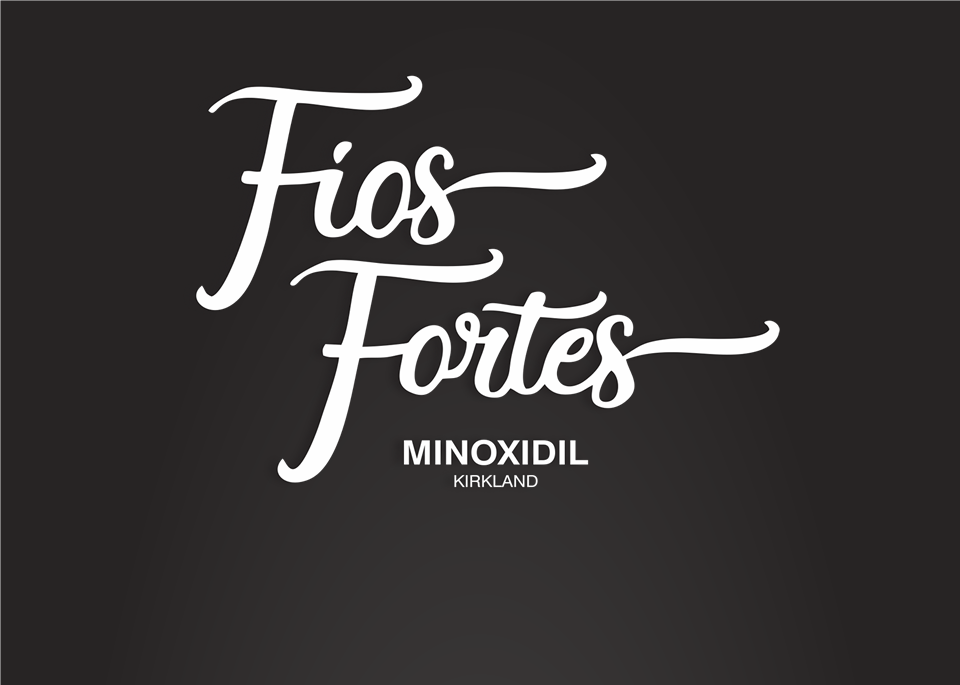
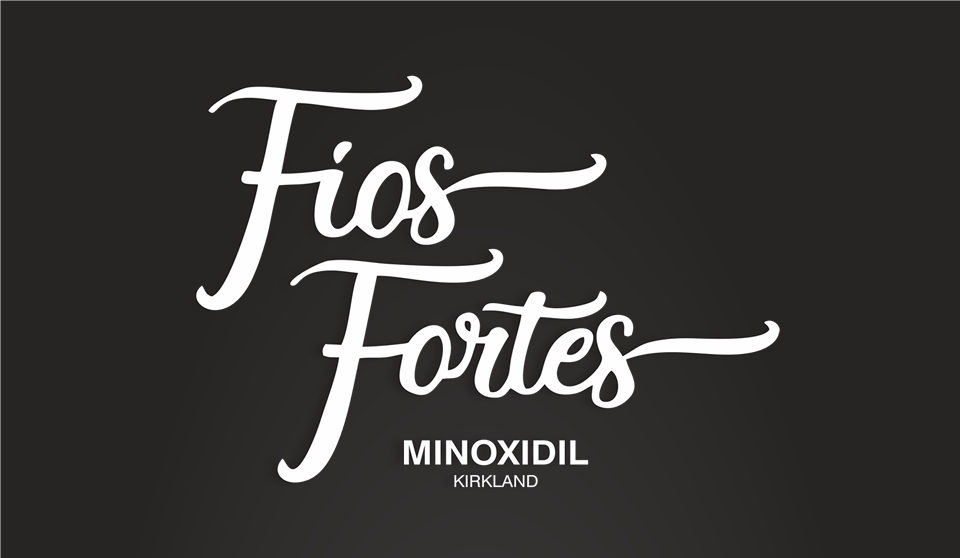
ok

Changed region(s): [[0.1875, 0.0914, 0.8125, 0.8835], [0.4062, 0.7921, 0.625, 0.8835]]

diff --git a/index.htm b/index.htm
@@ -3,42 +3,55 @@
 <!-- saved from url=(0014)about:internet -->
 <html xmlns="http://www.w3.org/1999/xhtml">
 <head>
-<center>
-<title>Fios Fortes - Minoxidil</title>
+<title>index.png</title>
 <meta http-equiv="Content-Type" content="text/html; charset=utf-8" />
 <style type="text/css">td img {display: block;}</style>
-<!--Fireworks CS6 Dreamweaver CS6 target.  Created Mon Jul 20 16:54:32 GMT-0300 (Hora oficial do Brasil) 2020-->
+<!--Fireworks CS6 Dreamweaver CS6 target.  Created Tue Jul 21 01:20:49 GMT-0300 (Hora oficial do Brasil) 2020-->
 </head>
 <body bgcolor="#ffffff">
 <table style="display: inline-table;" border="0" cellpadding="0" cellspacing="0" width="960">
-<!-- fwtable fwsrc="Sem título" fwpage="Página 1" fwbase="index.png" fwstyle="Dreamweaver" fwdocid = "804448898" fwnested="0" -->
+<!-- fwtable fwsrc="index.png" fwpage="Página 1" fwbase="index.png" fwstyle="Dreamweaver" fwdocid = "1532359815" fwnested="0" -->
   <tr>
-   <td><img src="imagens/spacer.gif" width="241" height="1" alt="" /></td>
-   <td><img src="imagens/spacer.gif" width="480" height="1" alt="" /></td>
-   <td><img src="imagens/spacer.gif" width="239" height="1" alt="" /></td>
+   <td><img src="imagens/spacer.gif" width="240" height="1" alt="" /></td>
+   <td><img src="imagens/spacer.gif" width="305" height="1" alt="" /></td>
+   <td><img src="imagens/spacer.gif" width="82" height="1" alt="" /></td>
+   <td><img src="imagens/spacer.gif" width="93" height="1" alt="" /></td>
+   <td><img src="imagens/spacer.gif" width="240" height="1" alt="" /></td>
    <td><img src="imagens/spacer.gif" width="1" height="1" alt="" /></td>
   </tr>
 
   <tr>
-   <td colspan="3"><img name="index_r1_c1" src="imagens/index_r1_c1.png" width="960" height="685" id="index_r1_c1" alt="" /></td>
-   <td><img src="imagens/spacer.gif" width="1" height="685" alt="" /></td>
+   <td colspan="5"><img name="index_r1_c1" src="imagens/index_r1_c1.png" width="960" height="558" id="index_r1_c1" alt="" /></td>
+   <td><img src="imagens/spacer.gif" width="1" height="558" alt="" /></td>
   </tr>
   <tr>
-   <td rowspan="2"><img name="index_r2_c1" src="imagens/index_r2_c1.png" width="241" height="2727" id="index_r2_c1" alt="" /></td>
-   <td><img name="index_r2_c2" src="imagens/index_r2_c2.gif" width="480" height="480" id="index_r2_c2" alt="" /></td>
-   <td rowspan="2"><img name="index_r2_c3" src="imagens/index_r2_c3.png" width="239" height="2727" id="index_r2_c3" alt="" /></td>
-   <td><img src="imagens/spacer.gif" width="1" height="480" alt="" /></td>
+   <td colspan="5"><img name="index_r2_c1" src="imagens/index_r2_c1.png" width="960" height="106" id="index_r2_c1" alt="" /></td>
+   <td><img src="imagens/spacer.gif" width="1" height="106" alt="" /></td>
   </tr>
   <tr>
-   <td><img name="index_r3_c2" src="imagens/index_r3_c2.png" width="480" height="2247" id="index_r3_c2" usemap="#m_index_r3_c2" alt="" /></td>
-   <td><img src="imagens/spacer.gif" width="1" height="2247" alt="" /></td>
+   <td rowspan="2"><img name="index_r3_c1" src="imagens/index_r3_c1.png" width="240" height="2195" id="index_r3_c1" alt="" /></td>
+   <td colspan="3"><img name="index_r3_c2" src="imagens/index_r3_c2.png" width="480" height="479" id="index_r3_c2" alt="" /></td>
+   <td rowspan="2"><img name="index_r3_c5" src="imagens/index_r3_c5.png" width="240" height="2195" id="index_r3_c5" alt="" /></td>
+   <td><img src="imagens/spacer.gif" width="1" height="479" alt="" /></td>
+  </tr>
+  <tr>
+   <td colspan="3"><img name="index_r4_c2" src="imagens/index_r4_c2.png" width="480" height="1716" id="index_r4_c2" alt="" /></td>
+   <td><img src="imagens/spacer.gif" width="1" height="1716" alt="" /></td>
+  </tr>
+  <tr>
+   <td colspan="5"><img name="index_r5_c1" src="imagens/index_r5_c1.png" width="960" height="13" id="index_r5_c1" alt="" /></td>
+   <td><img src="imagens/spacer.gif" width="1" height="13" alt="" /></td>
+  </tr>
+  <tr>
+   <td rowspan="2" colspan="2"><img name="index_r6_c1" src="imagens/index_r6_c1.png" width="545" height="540" id="index_r6_c1" alt="" /></td>
+   <td><a href="https://wa.me/5521986832946"><img name="index_r6_c3" src="imagens/index_r6_c3.png" width="82" height="74" id="index_r6_c3" alt="" /></a></td>
+   <td rowspan="2" colspan="2"><img name="index_r6_c4" src="imagens/index_r6_c4.png" width="333" height="540" id="index_r6_c4" alt="" /></td>
+   <td><img src="imagens/spacer.gif" width="1" height="74" alt="" /></td>
+  </tr>
+  <tr>
+   <td><img name="index_r7_c3" src="imagens/index_r7_c3.png" width="82" height="466" id="index_r7_c3" alt="" /></td>
+   <td><img src="imagens/spacer.gif" width="1" height="466" alt="" /></td>
   </tr>
 </table>
-<map name="m_index_r3_c2" id="m_index_r3_c2">
-<area shape="rect" coords="317,1714,377,1776" href="https://wa.me/5521986832946" alt="" />
-<area shape="rect" coords="207,1713,271,1776" href="https://www.instagram.com/minoxidil_fiosfortes/" alt="" />
-<area shape="rect" coords="119,1713,156,1776" href="https://www.facebook.com/FiosFortess" alt="" />
-</map>
-</center>
 </body>
 </html>
